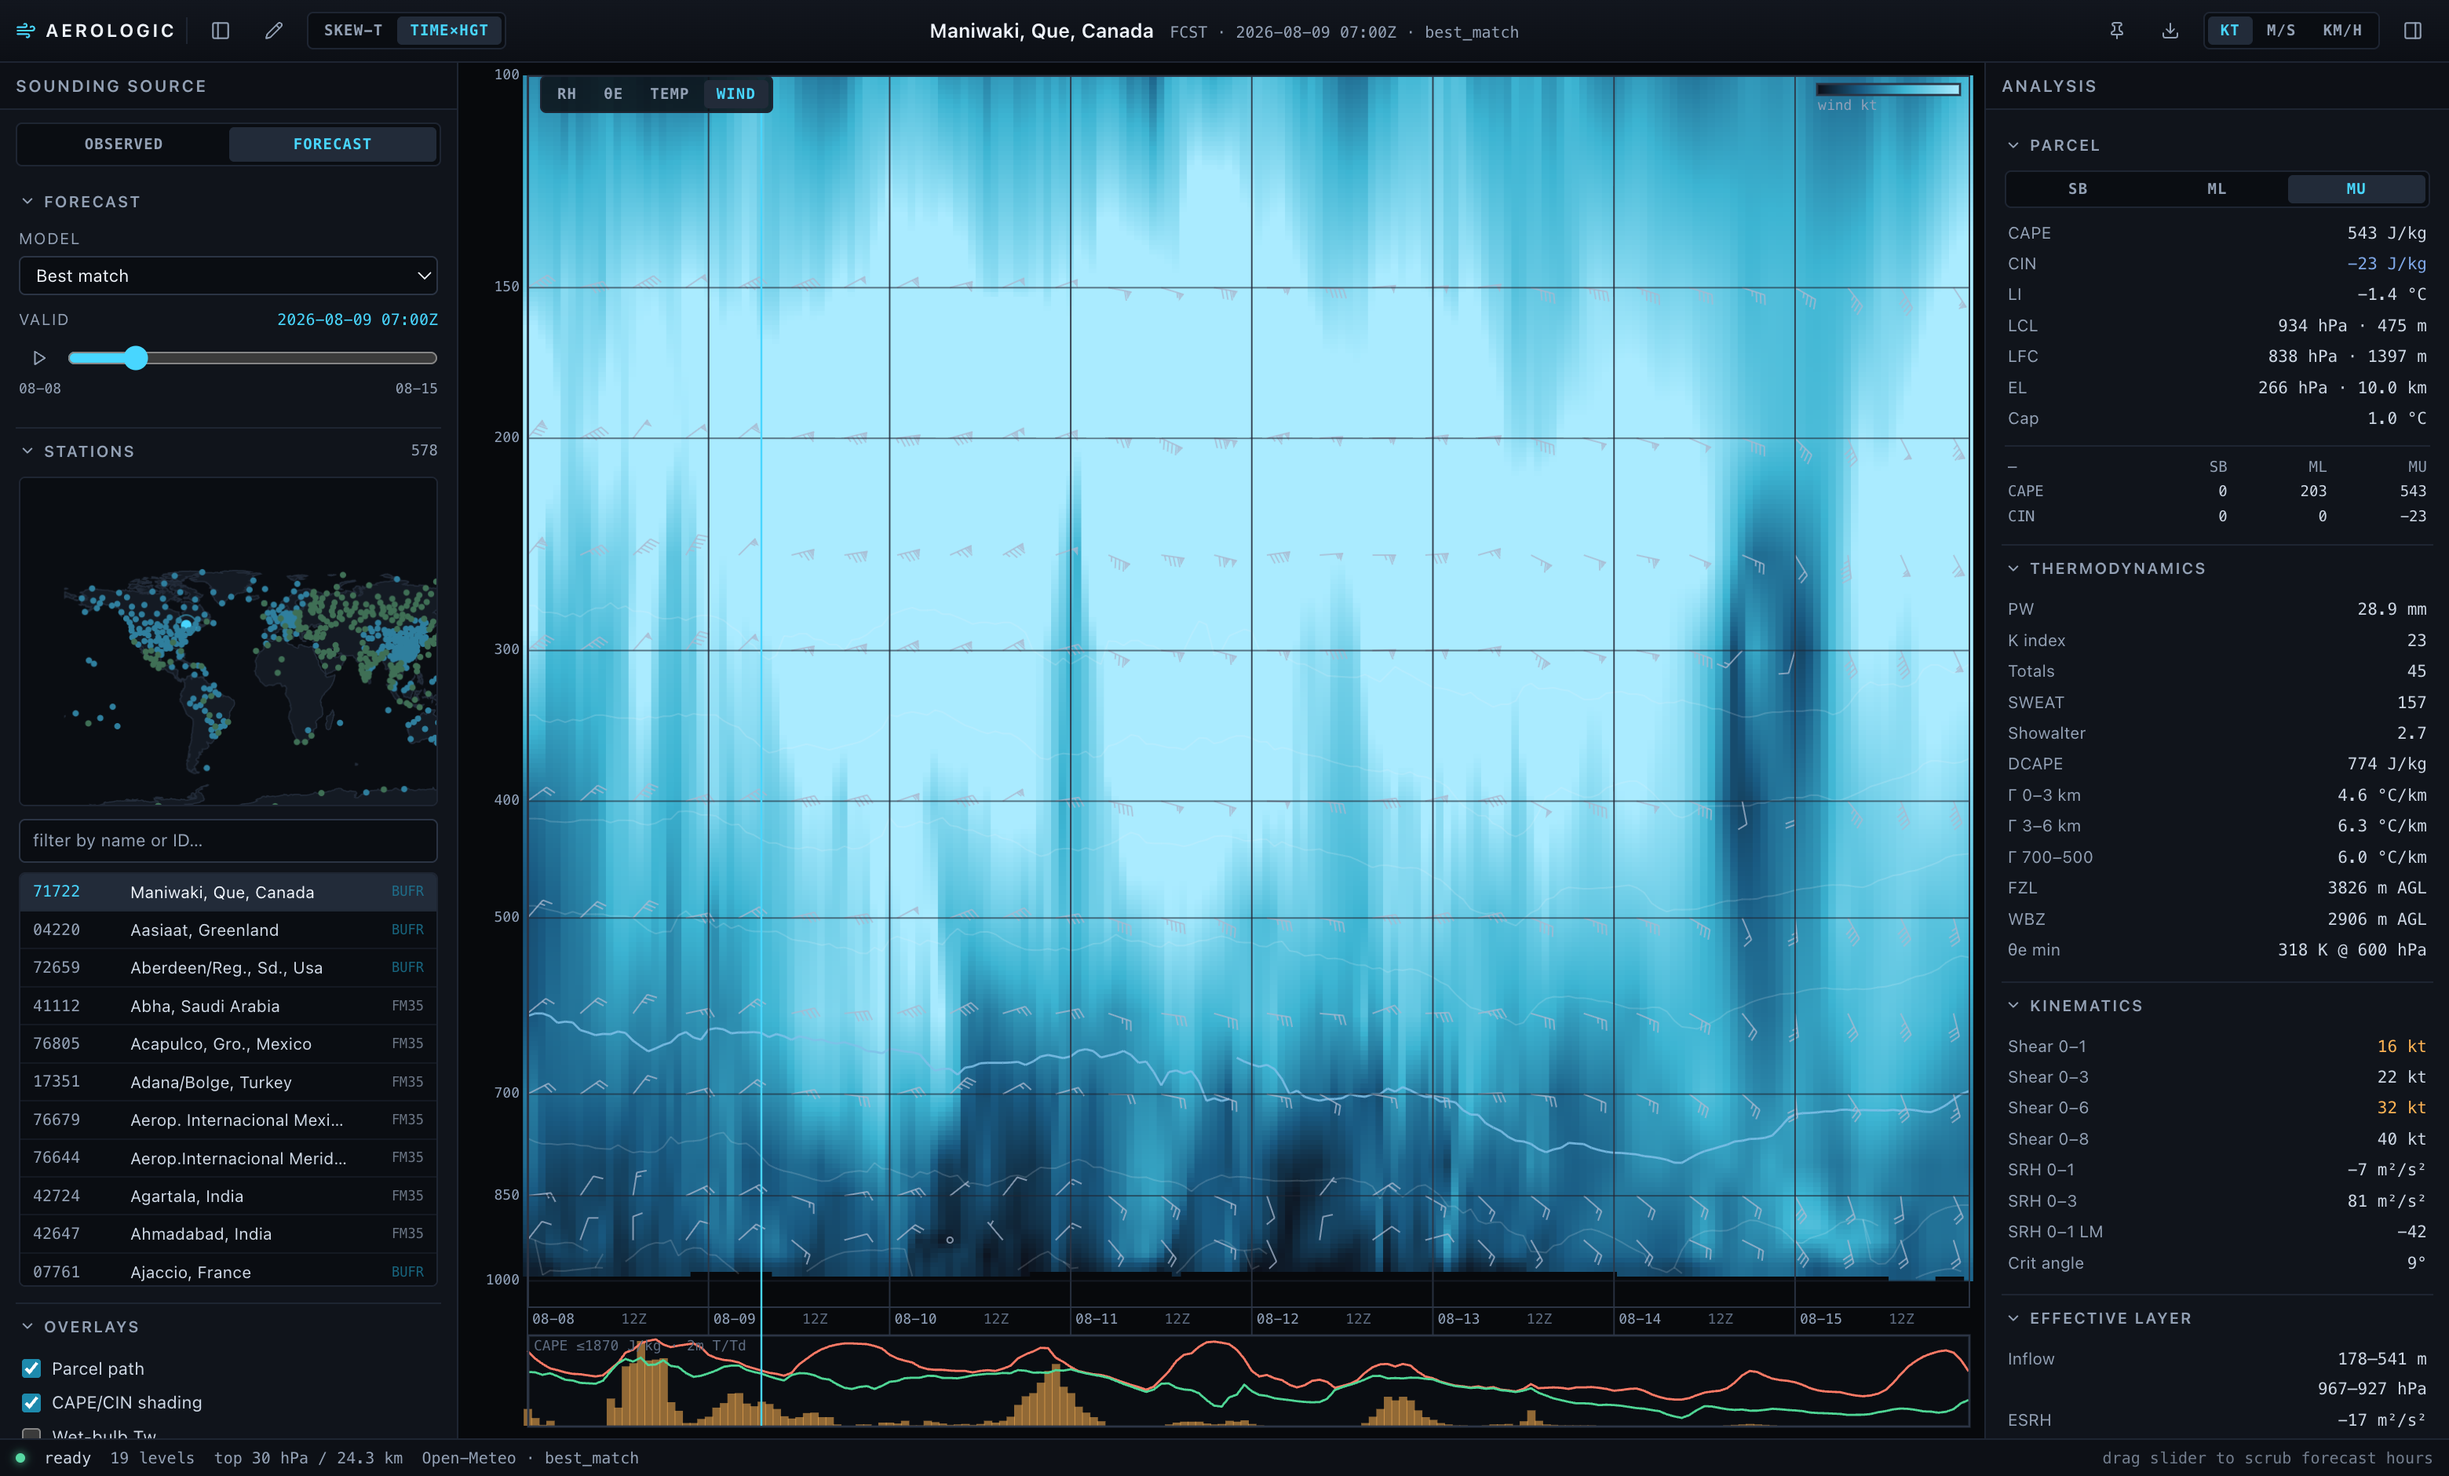
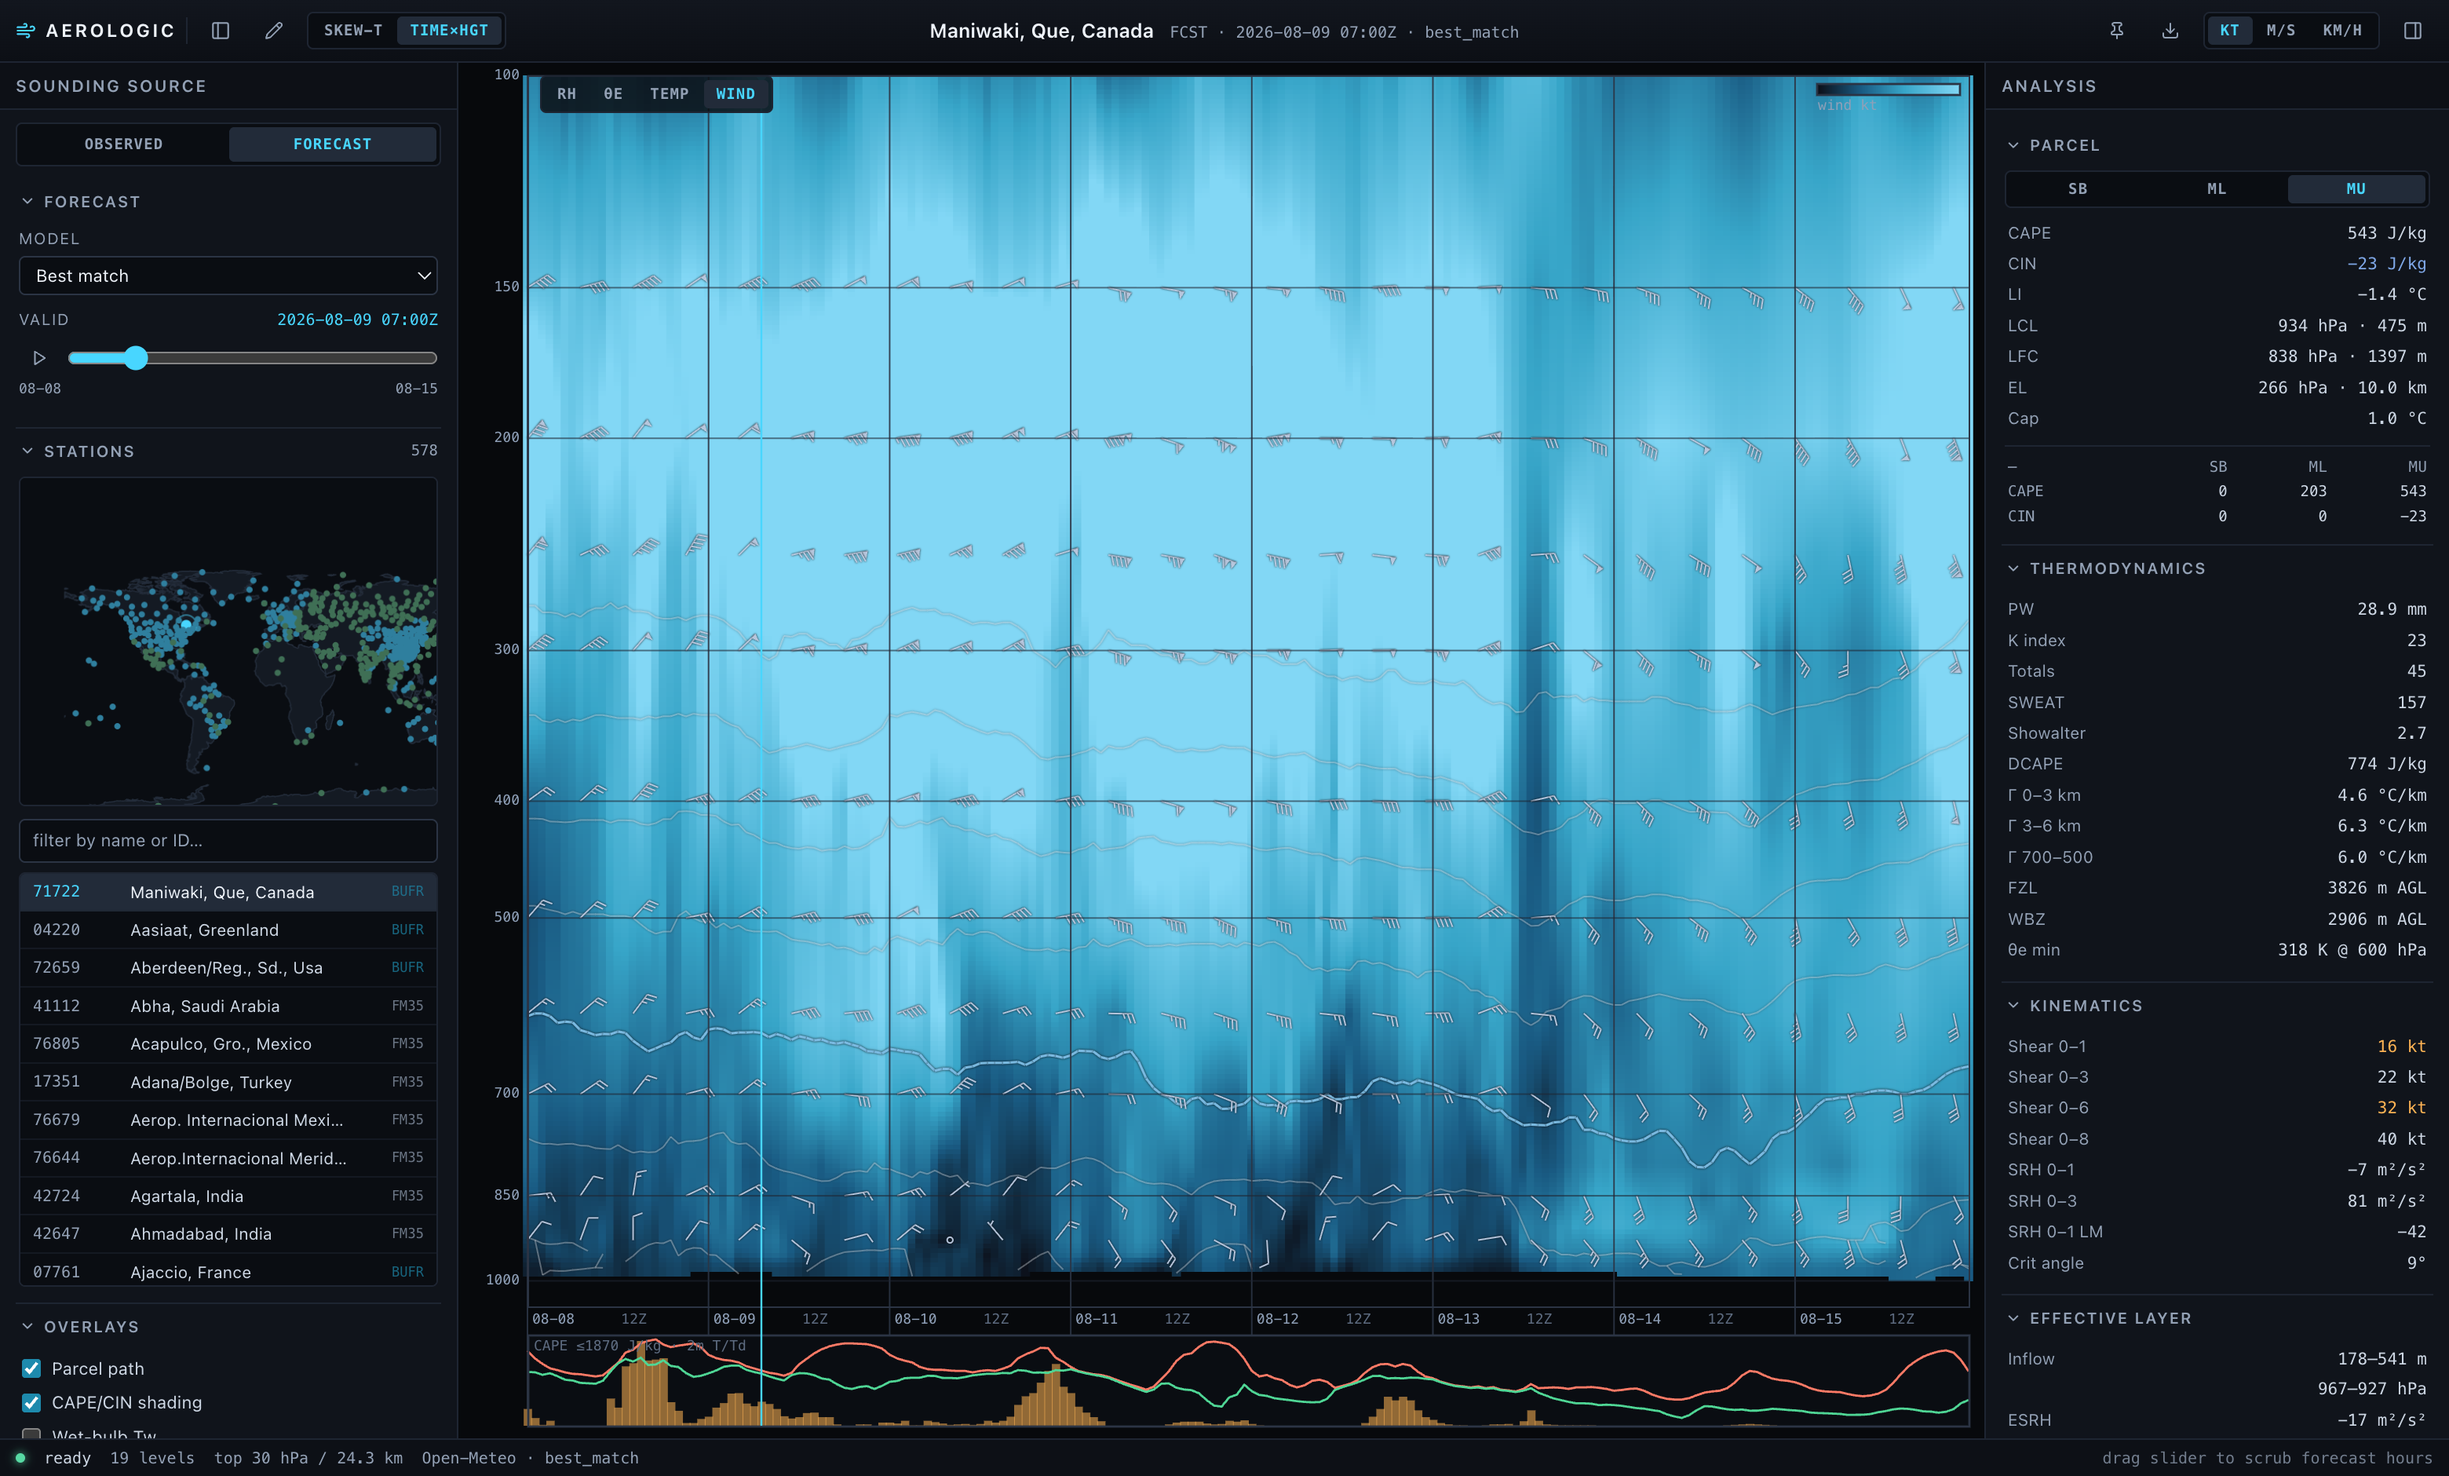
Time-height: dark halos on barbs/isotherms for contrast; recapture screenshots

Changed region(s): [[0.1865, 0.0309, 0.8083, 0.8638]]

diff --git a/src/timeheight/TimeHeight.tsx b/src/timeheight/TimeHeight.tsx
@@ -162,8 +162,8 @@ const T_STOPS: [number, [number, number, number]][] = [
 const W_STOPS: [number, [number, number, number]][] = [
   [0, [12, 16, 26]],
   [15, [25, 90, 130]],
-  [30, [60, 180, 210]],
-  [50, [170, 235, 255]],
+  [30, [55, 165, 200]],
+  [50, [130, 215, 245]],
 ]
 
 function fieldColor(field: ThField, c: { t: number; rh: number; te: number; wspd: number }): string {
@@ -263,11 +263,15 @@ export function TimeHeight() {
       }
     }
 
-    // ── isotherm overlay: crossings per column, connected between columns
+    // ── isotherm overlay: crossings per column, connected between columns.
+    // A dark halo keeps the lines legible over bright heatmap regions.
+    ctx.save()
+    ctx.shadowColor = 'rgba(7, 9, 12, 0.9)'
+    ctx.shadowBlur = 3
     const isotherms = [-40, -30, -20, -10, 0, 10, 20]
     for (const iso of isotherms) {
-      ctx.strokeStyle = iso === 0 ? 'rgba(127, 192, 232, 0.85)' : 'rgba(238, 243, 250, 0.16)'
-      ctx.lineWidth = iso === 0 ? 1.4 : 1
+      ctx.strokeStyle = iso === 0 ? 'rgba(127, 192, 232, 0.95)' : 'rgba(238, 243, 250, 0.35)'
+      ctx.lineWidth = iso === 0 ? 1.6 : 1
       let prev: number[] = []
       for (let i = 0; i < n; i++) {
         // find crossings scanning levels bottom-up
@@ -311,10 +315,15 @@ export function TimeHeight() {
       }
     }
 
-    // ── wind barbs (subsampled grid)
+    ctx.restore()
+
+    // ── wind barbs (subsampled grid), same dark halo for contrast
+    ctx.save()
+    ctx.shadowColor = 'rgba(7, 9, 12, 0.9)'
+    ctx.shadowBlur = 2.5
     const hourStride = Math.max(1, Math.ceil(30 / dx))
-    ctx.strokeStyle = 'rgba(169, 184, 207, 0.75)'
-    ctx.fillStyle = 'rgba(169, 184, 207, 0.75)'
+    ctx.strokeStyle = 'rgba(190, 205, 228, 0.95)'
+    ctx.fillStyle = 'rgba(190, 205, 228, 0.95)'
     ctx.lineWidth = 1
     const barbLevels = [925, 850, 700, 600, 500, 400, 300, 250, 200, 150]
     for (let i = 0; i < n; i += hourStride) {
@@ -327,6 +336,7 @@ export function TimeHeight() {
         drawSmallBarb(ctx, x(i), y(lp), c.wdir, c.wspd * MS2KT)
       }
     }
+    ctx.restore()
 
     // ── day boundaries + time axis
     ctx.font = '9px ui-monospace, Menlo, monospace'
